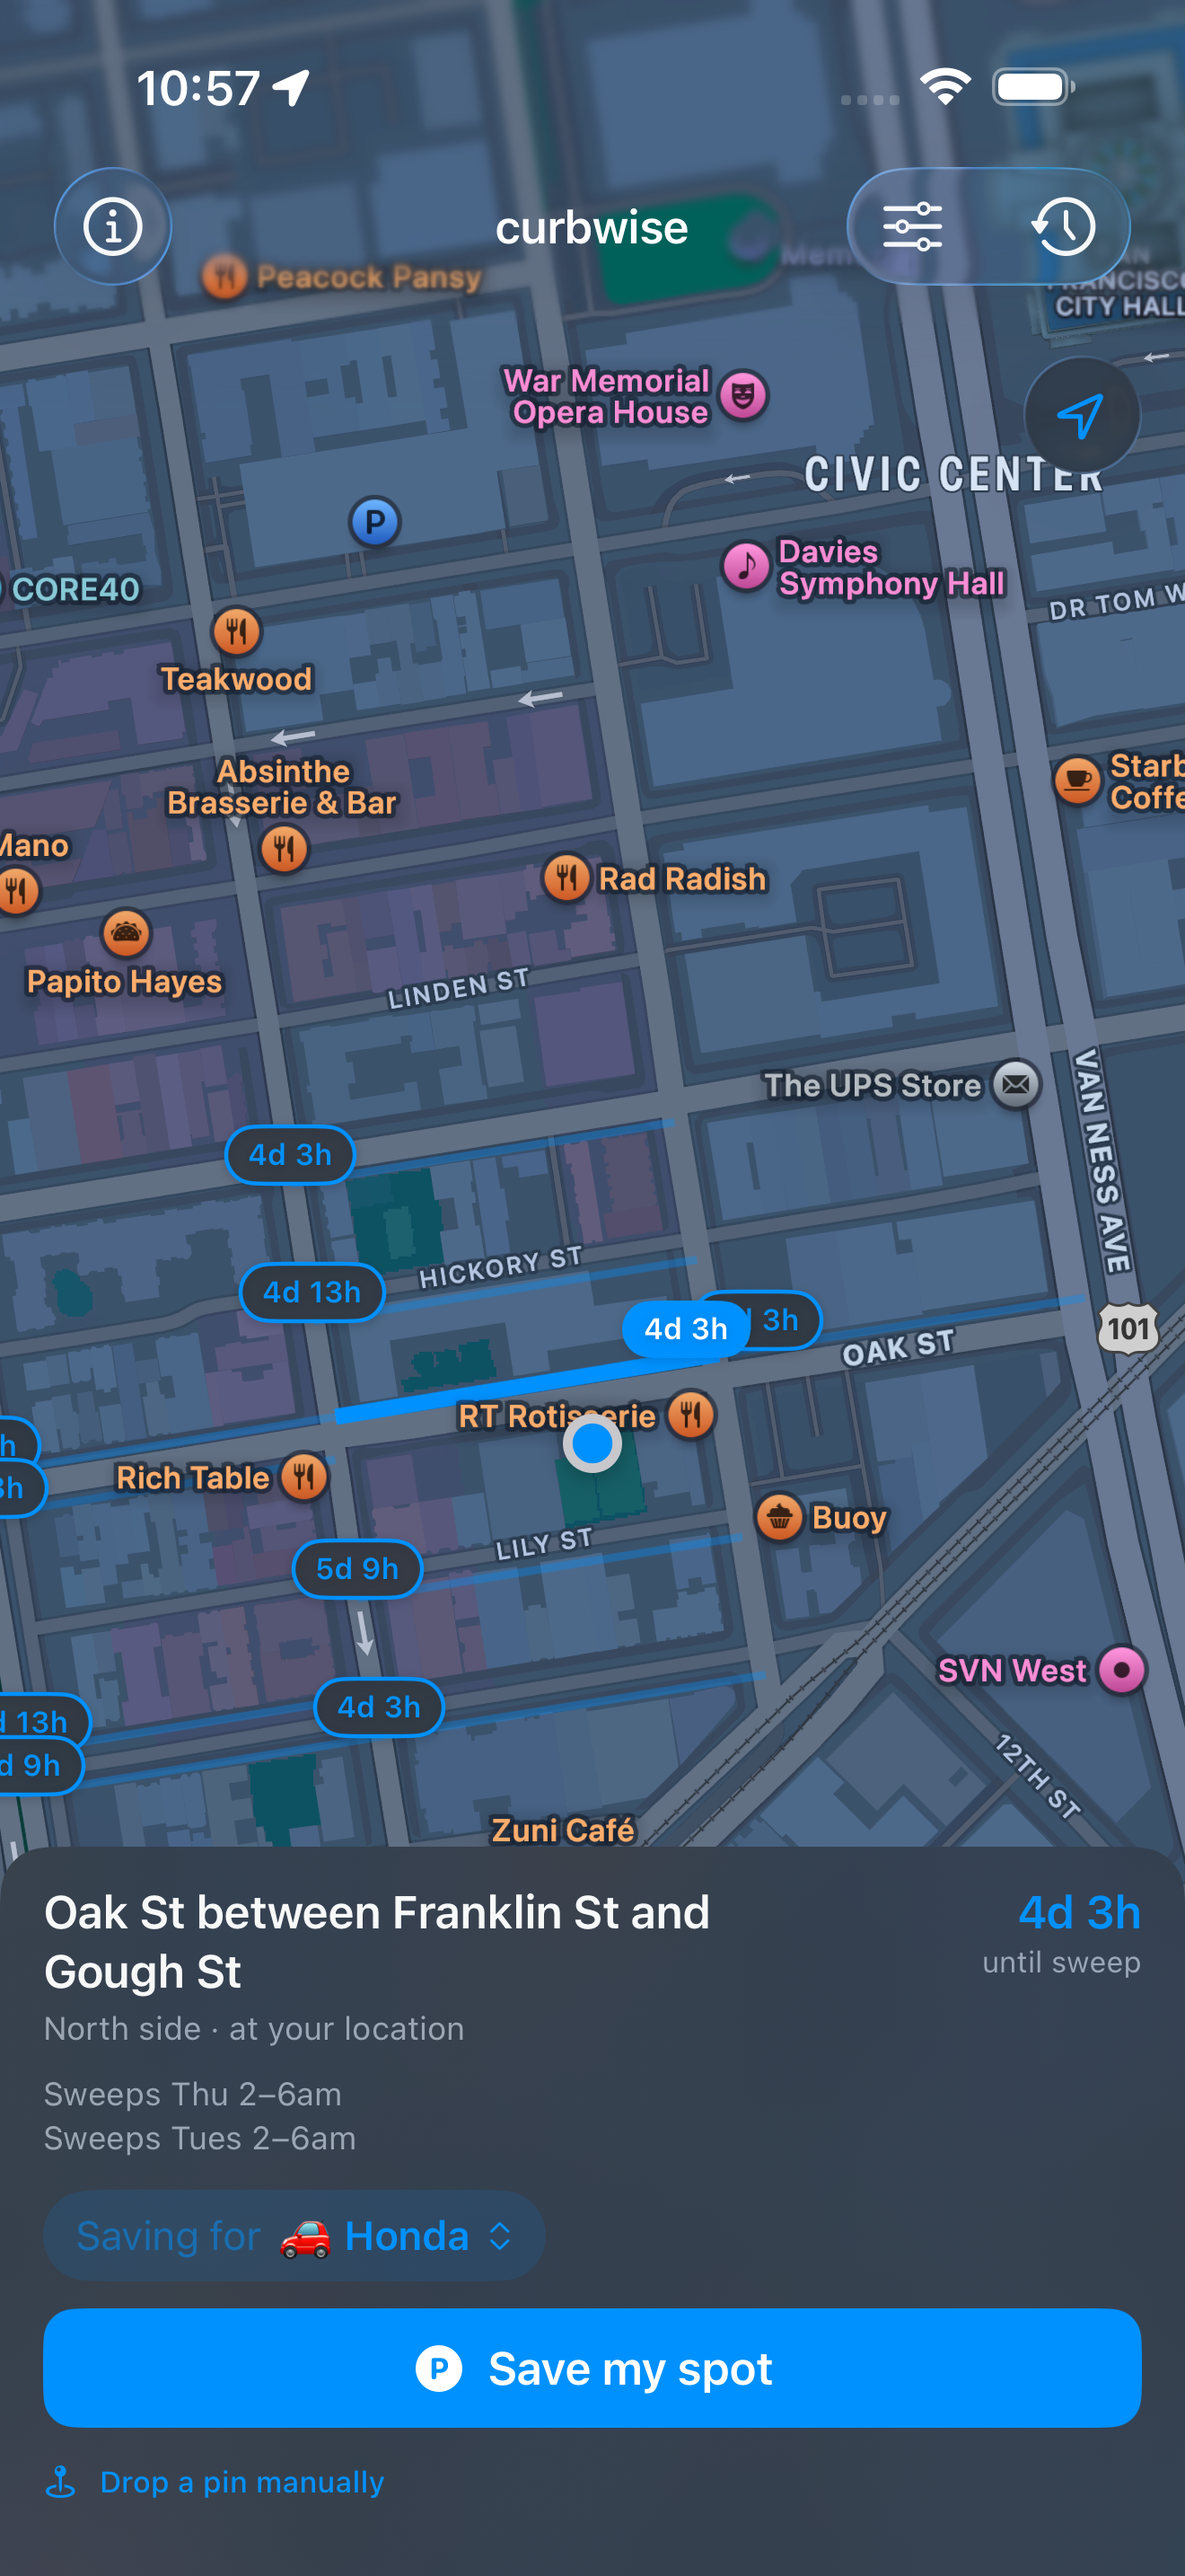
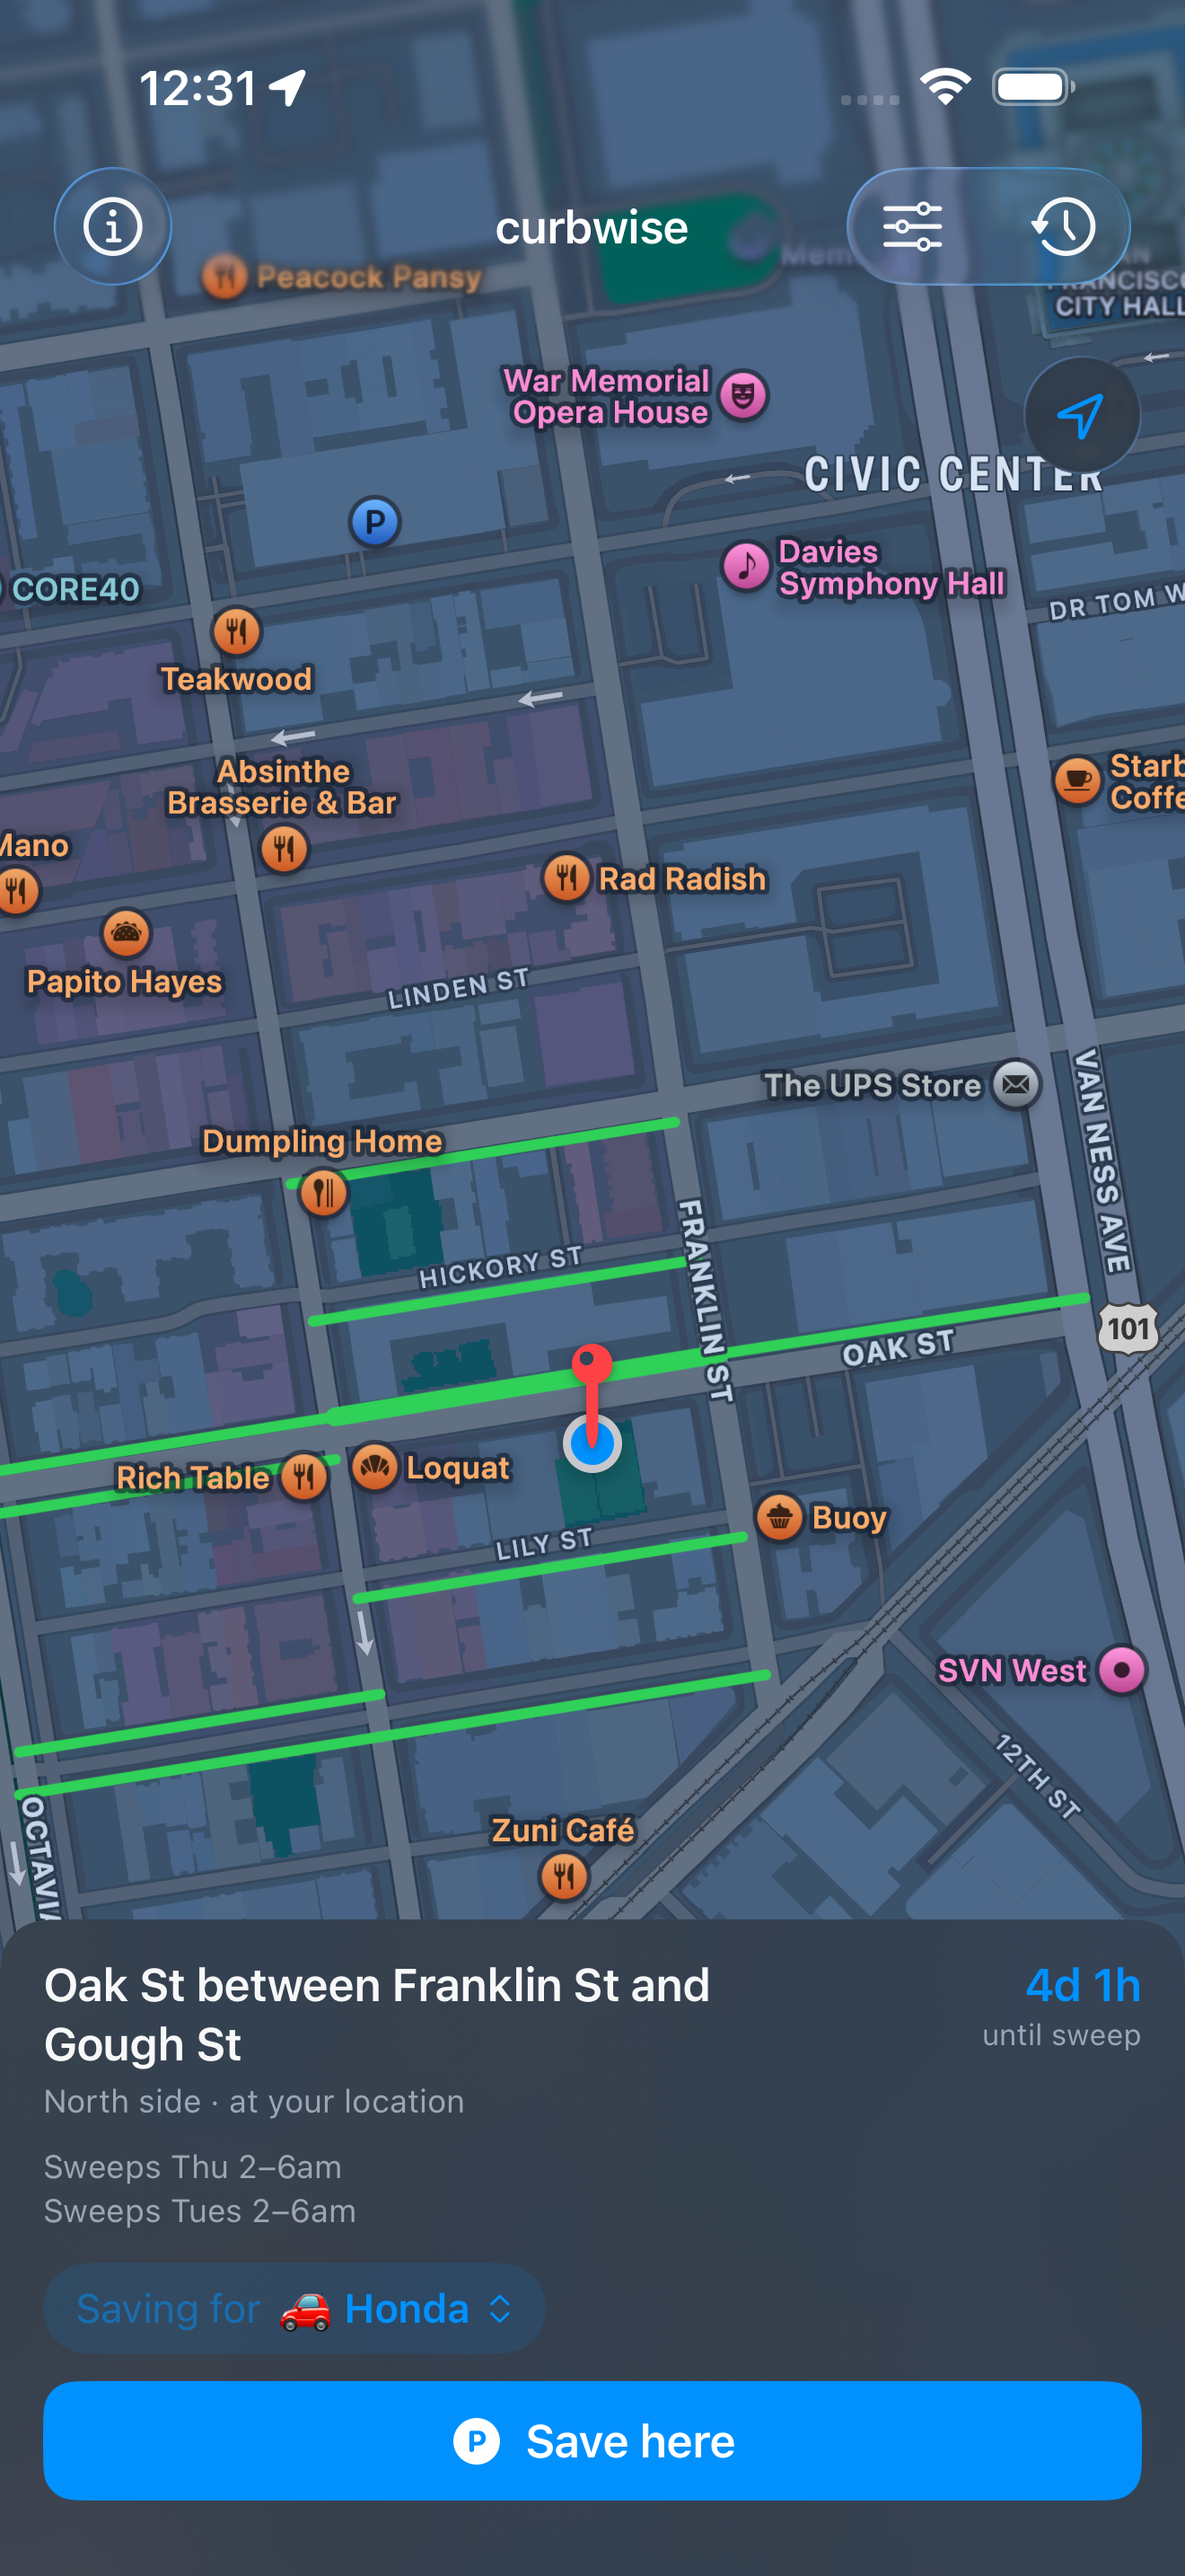
curbwise marketing: pin + colored curbs across the rail
Refresh of every rail shot for the unified home redesign:
* Crosshair pin sits at map center, you pan to pick a block
* Curbs colored by time-until-sweep (red → green)
* No more separate save sheet — Save here is in the bottom card

Captions + alt text + feature blurbs updated to match. Light +
dark variants for 00, 01, 02, 05, 08, 10, 12, 15.

diff --git a/curbwise/index.html b/curbwise/index.html
@@ -354,11 +354,11 @@
             </div>
             <div class="screenshots-scroll" id="screenshots-rail">
                 <div class="shot">
-                    <img data-light="screenshots/01_home.png" data-dark="screenshots/01_home_dark.png" src="screenshots/01_home.png" alt="Unified home screen: map with nearby blocks tagged with park-time pills, the matched-at-user block highlighted, and a one-tap Save my spot button in the bottom card.">
-                    <span class="shot-caption">1. Park — one tap, the map snaps onto your curb.</span>
+                    <img data-light="screenshots/01_home.png" data-dark="screenshots/01_home_dark.png" src="screenshots/01_home.png" alt="Unified home screen: a draggable pin at map center sits on the user's matched block, nearby curbs are colored green for plenty of time, and a one-tap Save here button fills the bottom card.">
+                    <span class="shot-caption">1. Park — pin lands on your curb, one tap to save.</span>
                 </div>
                 <div class="shot">
-                    <img data-light="screenshots/05_imminent_sweep.png" data-dark="screenshots/05_imminent_sweep_dark.png" src="screenshots/05_imminent_sweep.png" alt="Home map with an imminent sweep on the matched block — bottom card shows the countdown alongside sweep + time-limit rules.">
+                    <img data-light="screenshots/05_imminent_sweep.png" data-dark="screenshots/05_imminent_sweep_dark.png" src="screenshots/05_imminent_sweep.png" alt="Home map showing the matched block's sweep + time-limit rules — colored polylines around it show how much time other nearby spots have left.">
                     <span class="shot-caption">2. See your spot — sweep + time-limit countdowns.</span>
                 </div>
                 <div class="shot">
@@ -366,8 +366,8 @@
                     <span class="shot-caption">3. Get warned — snooze if you're skirting the limit.</span>
                 </div>
                 <div class="shot">
-                    <img data-light="screenshots/15_find_spot.png" data-dark="screenshots/15_find_spot_dark.png" src="screenshots/15_find_spot.png" alt="Same unified home with the nearby block pills emphasizing the find-a-spot moment — see how long you can park before the next sweep, all in one screen.">
-                    <span class="shot-caption">4. Circle — pills show park time on every nearby block.</span>
+                    <img data-light="screenshots/15_find_spot.png" data-dark="screenshots/15_find_spot_dark.png" src="screenshots/15_find_spot.png" alt="Pan the map and the pin moves with it; nearby blockfaces are colored red (sweep soon) to green (plenty of time) so the next-best spot is obvious at a glance.">
+                    <span class="shot-caption">4. Circle — curbs colored red → green by park time.</span>
                 </div>
                 <div class="shot">
                     <img data-light="screenshots/12_multi_car_home.png" data-dark="screenshots/12_multi_car_home_dark.png" src="screenshots/12_multi_car_home.png" alt="Unified home with multiple saved-spot pins on the map, one per car, each rendered with its own emoji.">
@@ -411,7 +411,7 @@
                 </div>
                 <div class="feature">
                     <h3>Find a spot nearby</h3>
-                    <p>Driving around? Curbwise draws nearby blocks on a map, each tagged with a "park-for" pill — "4d here, 5h there." Tap one to see the rules and start walking directions.</p>
+                    <p>Driving around? Curbwise paints nearby curbs red-through-green by how long you can park there — green means plenty of time, red means the sweeper's almost here. Pan the map, the pin snaps onto whatever curb is under it, and the bottom card shows the precise time and a one-tap save.</p>
                 </div>
                 <div class="feature">
                     <h3>Multi-car</h3>
@@ -423,7 +423,7 @@
                 </div>
                 <div class="feature">
                     <h3>Pick your block</h3>
-                    <p>When GPS is ambiguous, drop a pin on the map; curbwise snaps to the nearest curb and surfaces its schedule before you commit.</p>
+                    <p>The home map is the picker. A fixed pin sits at the screen's center; pan the map to slide the pin onto the right curb, and the bottom card snaps to that block's schedule before you commit.</p>
                 </div>
                 <div class="feature">
                     <h3>Built for the car</h3>
